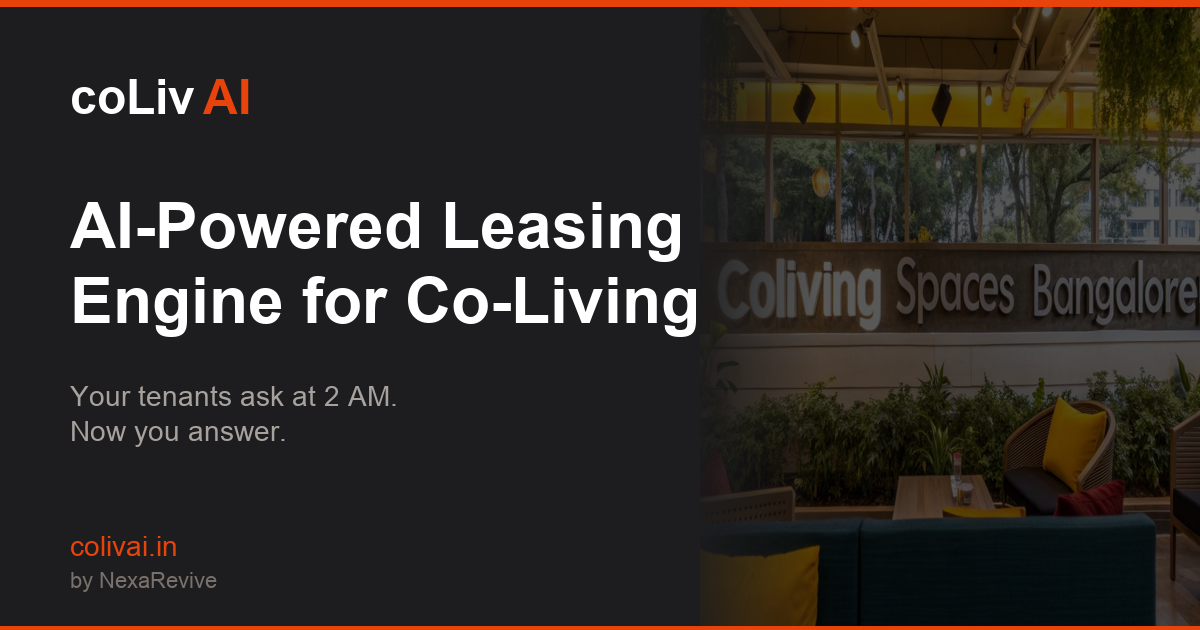
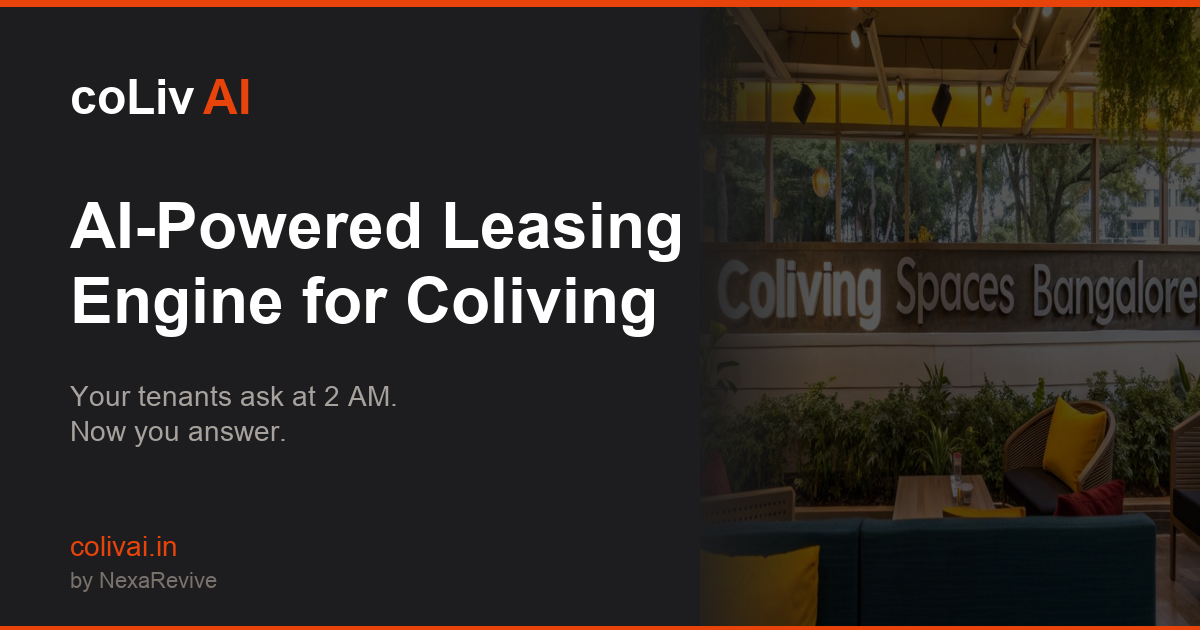
Change Co-Living to Coliving across site and OG image

Changed region(s): [[0.4008, 0.4222, 0.5858, 0.5429]]

diff --git a/index.html b/index.html
@@ -3,7 +3,7 @@
 <head>
     <meta charset="UTF-8">
     <meta name="viewport" content="width=device-width, initial-scale=1.0">
-    <title>coLiv AI | AI-Powered Leasing Engine for Co-Living Spaces in India</title>
+    <title>coLiv AI | AI-Powered Leasing Engine for Coliving Spaces in India</title>
     <meta name="description" content="coLiv AI by NexaRevive is an AI-powered leasing engine and coliving platform in India. Automate tenant inquiries, bookings, and property management with WhatsApp and web chat integration. AI advisory for coliving operators in Bangalore, Mumbai, Delhi, Hyderabad, Pune, and Chennai.">
     <meta name="keywords" content="coliving India, co-living spaces, AI leasing engine, coliving platform, AI advisory, NexaRevive, coliving Bangalore, coliving Mumbai, coliving Delhi, coliving Hyderabad, coliving Pune, coliving Chennai, property management AI, tenant management, WhatsApp chatbot coliving, co-living booking, shared living India, coliving operator software, PG management, student housing India, coLiv AI, NexaRevive coliving">
     <meta name="author" content="coLiv AI">
@@ -13,7 +13,7 @@
     <!-- Open Graph / Social Media -->
     <meta property="og:type" content="website">
     <meta property="og:url" content="https://colivai.in/">
-    <meta property="og:title" content="coLiv AI | AI-Powered Leasing Engine for Co-Living Spaces in India">
+    <meta property="og:title" content="coLiv AI | AI-Powered Leasing Engine for Coliving Spaces in India">
     <meta property="og:description" content="NexaRevive's AI advisory and coliving platform. Automate tenant inquiries, bookings, and property management for co-living spaces across India including Chennai.">
     <meta property="og:site_name" content="coLiv AI">
     <meta property="og:image" content="https://colivai.in/images/og-image.png">
@@ -22,7 +22,7 @@
 
     <!-- Twitter -->
     <meta name="twitter:card" content="summary_large_image">
-    <meta name="twitter:title" content="coLiv AI | AI-Powered Leasing Engine for Co-Living">
+    <meta name="twitter:title" content="coLiv AI | AI-Powered Leasing Engine for Coliving">
     <meta name="twitter:description" content="AI-powered leasing engine for co-living spaces in India. Automate inquiries, bookings, and management.">
     <meta name="twitter:image" content="https://colivai.in/images/og-image.png">
     <link href="https://fonts.googleapis.com/css2?family=Inter:wght@400;500;600;700;800&display=swap" rel="stylesheet">
@@ -711,7 +711,7 @@
                 </div>
 
                 <div class="fade-in stagger-2">
-                    <h3 style="color: var(--white); margin-bottom: 20px;">Why Speed Wins in Co-Living</h3>
+                    <h3 style="color: var(--white); margin-bottom: 20px;">Why Speed Wins in Coliving</h3>
                     <div style="display: flex; flex-direction: column; gap: 16px;">
                         <div style="background: rgba(255,255,255,0.04); border-radius: 14px; padding: 24px; border: 1px solid rgba(255,255,255,0.08);">
                             <div style="display: flex; justify-content: space-between; align-items: center;">
